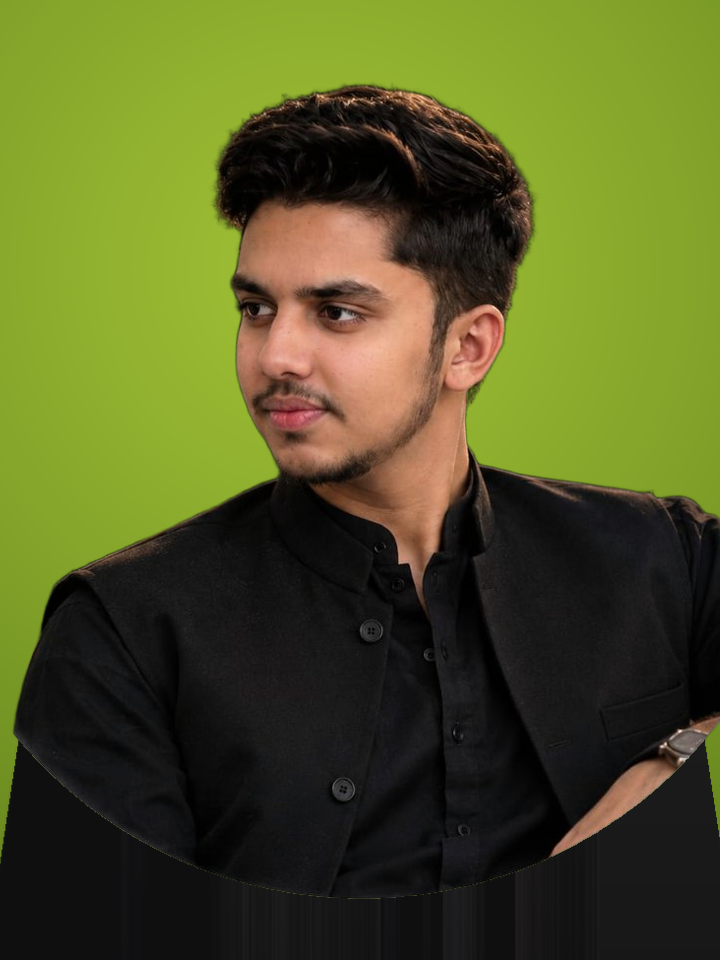
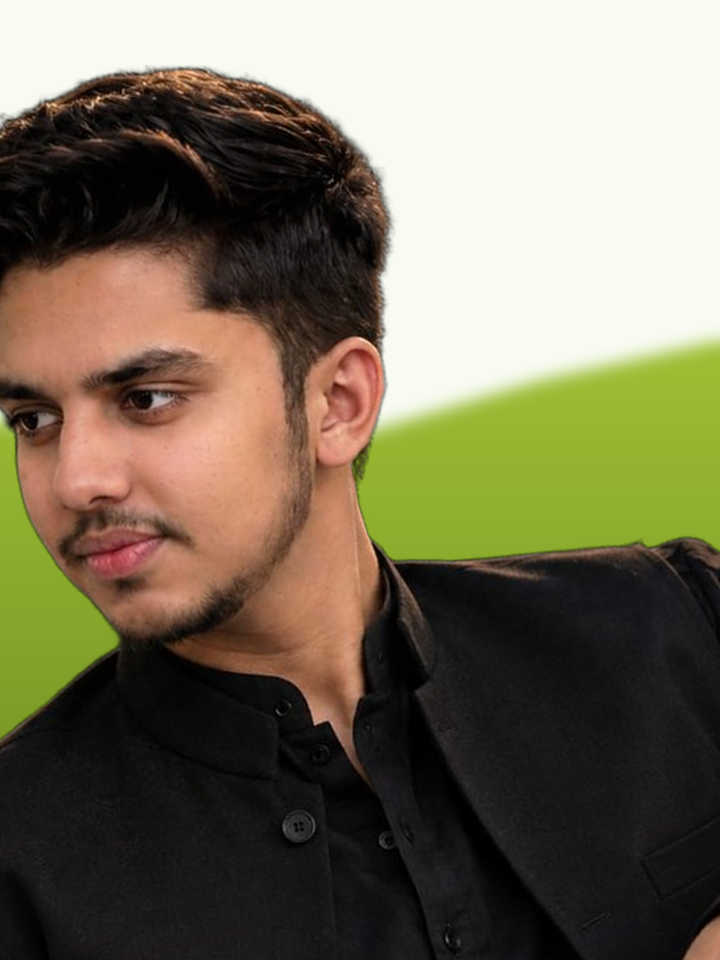
feat(about): align founder portrait to exact reference pose, upright posture, tight bust crop, and reference wave background

diff --git a/src/app/about/page.tsx b/src/app/about/page.tsx
@@ -182,13 +182,13 @@ export default function AboutPage() {
 
               {/* Founder Photo */}
               <div className="shrink-0 flex items-center sm:self-start">
-                <div className="relative w-24 sm:w-28 md:w-32 h-32 sm:h-36 md:h-40 rounded-2xl overflow-hidden border-2 border-[#365314]/20 dark:border-[#a3b86c]/30 shadow-md bg-[#5c8024]">
+                <div className="relative w-32 sm:w-40 md:w-48 lg:w-52 aspect-[3/4] rounded-2xl overflow-hidden border-2 border-[#365314]/20 dark:border-[#a3b86c]/30 shadow-md bg-[#f8fbf2]">
                   <Image
                     src="/images/about/mr-sami-sharp.png"
                     alt="Mr. Sami - Founder of Courseyl"
                     fill
                     priority
-                    sizes="(max-width: 640px) 96px, 128px"
+                    sizes="(max-width: 640px) 128px, (max-width: 1024px) 160px, 208px"
                     className="object-cover object-top select-none"
                   />
                 </div>
